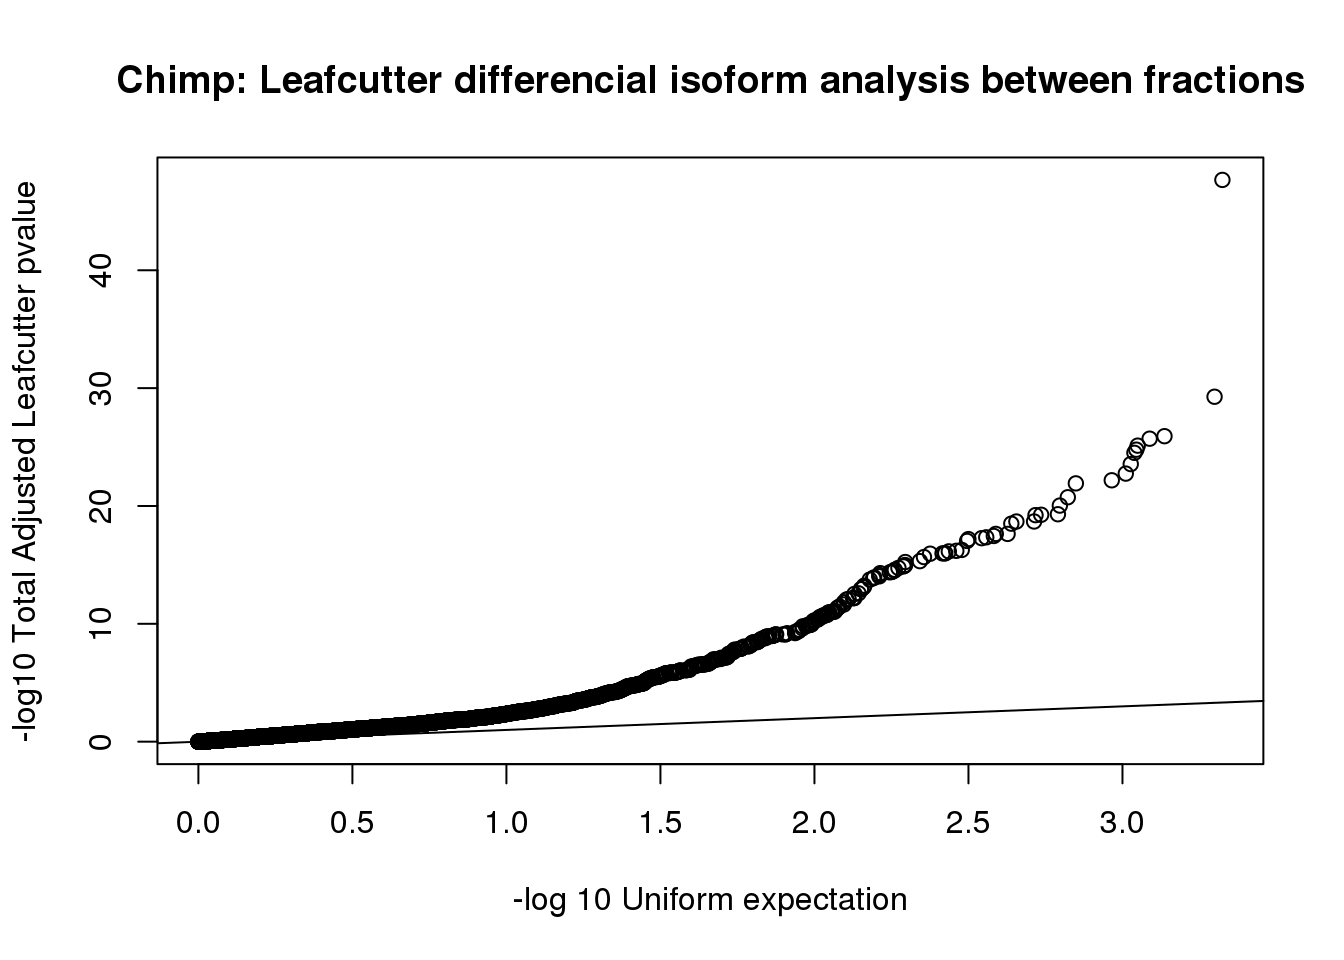
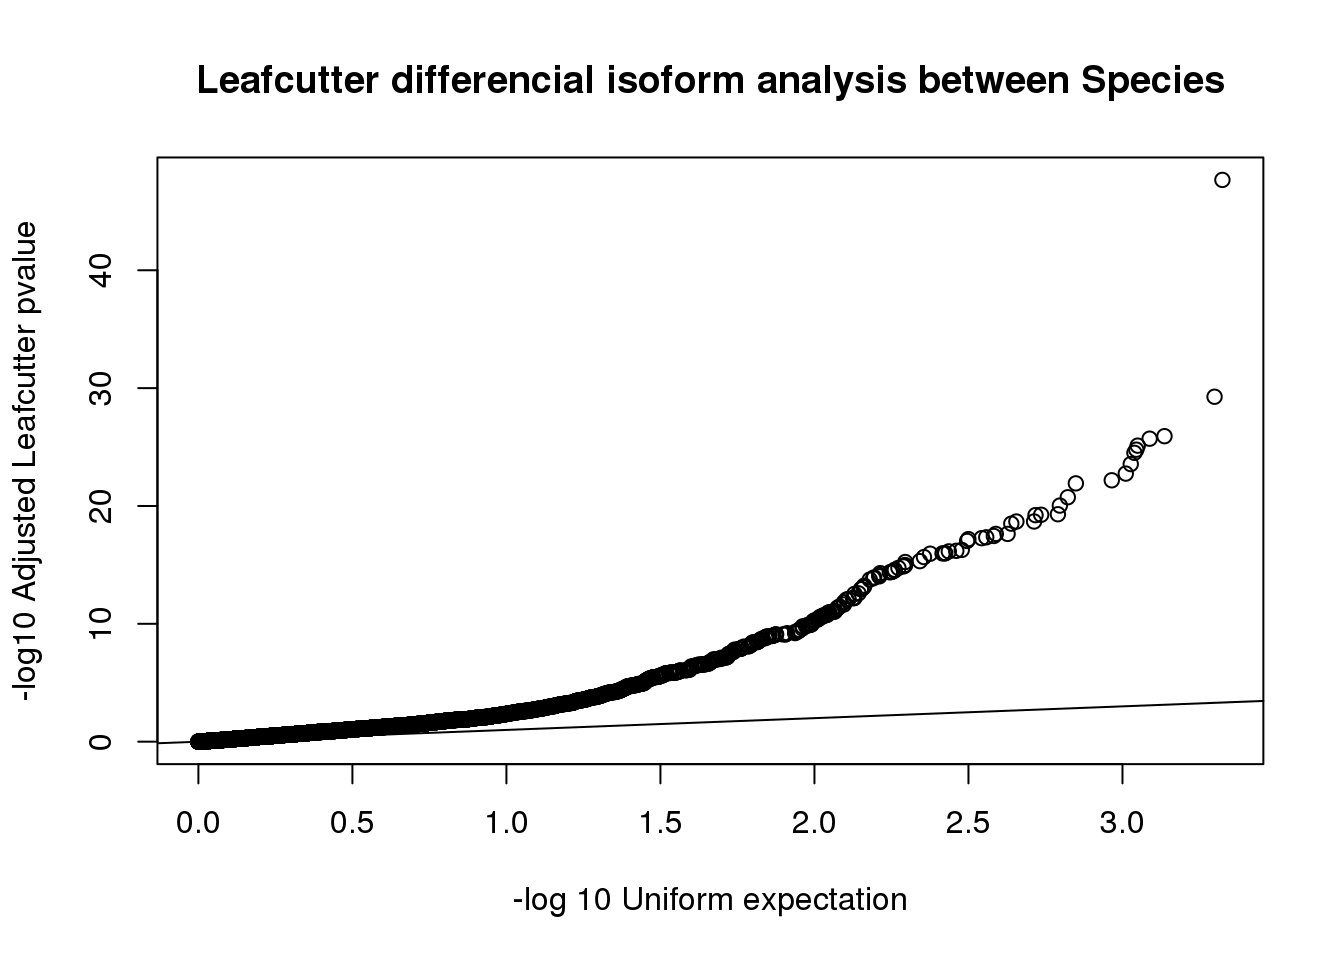
Build site.

Changed region(s): [[0.0625, 0.0625, 0.9688, 0.125], [0.0, 0.1875, 0.0312, 0.7812]]

diff --git a/docs/Nuclear_HvC.html b/docs/Nuclear_HvC.html
@@ -434,10 +434,10 @@ This reproducible <a href="http://rmarkdown.rstudio.com">R Markdown</a> analysis
 <div class="panel panel-default">
 <div class="panel-heading">
 <p class="panel-title">
-<a data-toggle="collapse" data-parent="#workflowr-checks" href="#strongRepositoryversionstrongahrefhttpsgithubcombrimittlemanComparativeAPAtree4a1903cba6a1e6dbe2bfcc784c67a3da1acd0c72targetblank4a1903ca"> <span class="glyphicon glyphicon-ok text-success" aria-hidden="true"></span> <strong>Repository version:</strong> <a href="https://github.com/brimittleman/Comparative_APA/tree/4a1903cba6a1e6dbe2bfcc784c67a3da1acd0c72" target="_blank">4a1903c</a> </a>
+<a data-toggle="collapse" data-parent="#workflowr-checks" href="#strongRepositoryversionstrongahrefhttpsgithubcombrimittlemanComparativeAPAtree238e54cf3ed080f76c8f18d2f7a08214e1fd0e4ctargetblank238e54ca"> <span class="glyphicon glyphicon-ok text-success" aria-hidden="true"></span> <strong>Repository version:</strong> <a href="https://github.com/brimittleman/Comparative_APA/tree/238e54cf3ed080f76c8f18d2f7a08214e1fd0e4c" target="_blank">238e54c</a> </a>
 </p>
 </div>
[2 lines of base64/hex data omitted]
 <div class="panel-body">
 <p>
 Great! You are using Git for version control. Tracking code development and connecting the code version to the results is critical for reproducibility. The version displayed above was the version of the Git repository at the time these results were generated. <br><br> Note that you need to be careful to ensure that all relevant files for the analysis have been committed to Git prior to generating the results (you can use <code>wflow_publish</code> or <code>wflow_git_commit</code>). workflowr only checks the R Markdown file, but you know if there are other scripts or data files that it depends on. Below is the status of the Git repository when the results were generated:
@@ -490,6 +490,7 @@ Untracked files:
     Untracked:  code/._runChimpDiffIso.sh
     Untracked:  code/._runHumanDiffIso.sh
     Untracked:  code/._runNuclearDifffIso.sh
+    Untracked:  code/._run_chimpverifybam.sh
     Untracked:  code/._run_verifyBam.sh
     Untracked:  code/._snakemake.batch
     Untracked:  code/._snakemakePAS.batch
@@ -509,6 +510,7 @@ Untracked files:
     Untracked:  code/._submit-snakemakefiltPAS-human.sh
     Untracked:  code/._subset_diffisopheno_Nuclear_HvC.py
     Untracked:  code/._verifyBam4973.sh
+    Untracked:  code/._wrap_chimpverifybam.sh
     Untracked:  code/._wrap_verifyBam.sh
     Untracked:  code/.snakemake/
     Untracked:  code/Config_chimp.yaml
@@ -608,6 +610,7 @@ Untracked files:
     Untracked:  code/run_Humanleafcutter_ds.out
     Untracked:  code/run_Nuclearleafcutter_ds.err
     Untracked:  code/run_Nuclearleafcutter_ds.out
+    Untracked:  code/run_chimpverifybam.sh
     Untracked:  code/run_verifyBam.sh
     Untracked:  code/run_verifybam.err
     Untracked:  code/run_verifybam.out
@@ -643,6 +646,9 @@ Untracked files:
     Untracked:  code/verifyBam4973.sh
     Untracked:  code/verifybam4973.err
     Untracked:  code/verifybam4973.out
+    Untracked:  code/wrap_Chimpverifybam.err
+    Untracked:  code/wrap_Chimpverifybam.out
+    Untracked:  code/wrap_chimpverifybam.sh
     Untracked:  code/wrap_verifyBam.sh
     Untracked:  code/wrap_verifybam.err
     Untracked:  code/wrap_verifybam.out
@@ -669,9 +675,12 @@ Untracked files:
     Untracked:  data/primaryLift/
     Untracked:  data/reverseLift/
     Untracked:  data/~$metadata_HCpanel.xlsx
+    Untracked:  docs/figure/assessReadQual.Rmd/
 
 Unstaged changes:
+    Modified:   analysis/CorrbetweenInd.Rmd
     Modified:   analysis/PASnumperSpecies.Rmd
+    Modified:   analysis/verifyBAM.Rmd
 
 </code></pre>
 <p>
@@ -710,6 +719,40 @@ Message
 </tr>
 </thead>
 <tbody>
+<tr>
+<td>
+Rmd
+</td>
+<td>
+<a href="https://github.com/brimittleman/Comparative_APA/blob/238e54cf3ed080f76c8f18d2f7a08214e1fd0e4c/analysis/Nuclear_HvC.Rmd" target="_blank">238e54c</a>
+</td>
+<td>
+brimittleman
+</td>
+<td>
+2019-10-16
+</td>
+<td>
+fix label
+</td>
+</tr>
+<tr>
+<td>
+html
+</td>
+<td>
+<a href="https://rawcdn.githack.com/brimittleman/Comparative_APA/aab50e46a88261d54c57e8cb30e70b98cb764899/docs/Nuclear_HvC.html" target="_blank">aab50e4</a>
+</td>
+<td>
+brimittleman
+</td>
+<td>
+2019-10-16
+</td>
+<td>
+Build site.
+</td>
+</tr>
 <tr>
 <td>
 Rmd
@@ -837,12 +880,12 @@ add pca and human v chimp in nuc analysis
 </div>
 </div>
 <pre class="r"><code>library(tidyverse)</code></pre>
-<pre><code>── Attaching packages ─────────────────────────────────────────────────────── tidyverse 1.2.1 ──</code></pre>
+<pre><code>── Attaching packages ───────────────────────────────── tidyverse 1.2.1 ──</code></pre>
 <pre><code>✔ ggplot2 3.1.1       ✔ purrr   0.3.2  
 ✔ tibble  2.1.1       ✔ dplyr   0.8.0.1
 ✔ tidyr   0.8.3       ✔ stringr 1.3.1  
 ✔ readr   1.3.1       ✔ forcats 0.3.0  </code></pre>
-<pre><code>── Conflicts ────────────────────────────────────────────────────────── tidyverse_conflicts() ──
+<pre><code>── Conflicts ──────────────────────────────────── tidyverse_conflicts() ──
 ✖ dplyr::filter() masks stats::filter()
 ✖ dplyr::lag()    masks stats::lag()</code></pre>
 <pre class="r"><code>library(reshape2)</code></pre>
@@ -905,7 +948,7 @@ awk &#39;{if(NR&gt;1)print}&#39; ../data/DiffIso_Nuclear/TN_diff_isoform_chr*.tx
 <pre class="r"><code>sig=read.table(&quot;../data/DiffIso_Nuclear/TN_diff_isoform_allChrom.txt_significance.txt&quot;,sep=&quot;\t&quot; ,col.names = c(&#39;status&#39;,&#39;loglr&#39;,&#39;df&#39;,&#39;p&#39;,&#39;cluster&#39;,&#39;p.adjust&#39;),stringsAsFactors = F) %&gt;% filter(status==&quot;Success&quot;) 
 
 sig$p.adjust=as.numeric(as.character(sig$p.adjust))</code></pre>
-<pre class="r"><code>qqplot(-log10(runif(nrow(sig))), -log10(sig$p.adjust),ylab=&quot;-log10 Total Adjusted Leafcutter pvalue&quot;, xlab=&quot;-log 10 Uniform expectation&quot;, main=&quot;Chimp: Leafcutter differencial isoform analysis between fractions&quot;)
+<pre class="r"><code>qqplot(-log10(runif(nrow(sig))), -log10(sig$p.adjust),ylab=&quot;-log10 Adjusted Leafcutter pvalue&quot;, xlab=&quot;-log 10 Uniform expectation&quot;, main=&quot;Leafcutter differencial isoform analysis between Species&quot;)
 abline(0,1)</code></pre>
 <p><img src="figure/Nuclear_HvC.Rmd/unnamed-chunk-10-1.png" width="672" style="display: block; margin: auto;" /></p>
 <p>
@@ -1079,6 +1122,17 @@ Date
 <tbody>
 <tr>
 <td>
+<a href="https://github.com/brimittleman/Comparative_APA/blob/aab50e46a88261d54c57e8cb30e70b98cb764899/docs/figure/Nuclear_HvC.Rmd/unnamed-chunk-19-1.png" target="_blank">aab50e4</a>
+</td>
+<td>
+brimittleman
+</td>
+<td>
+2019-10-16
+</td>
+</tr>
+<tr>
+<td>
 <a href="https://github.com/brimittleman/Comparative_APA/blob/9d67688dd0bd68fb724c151ded92b0ba6ee1913b/docs/figure/Nuclear_HvC.Rmd/unnamed-chunk-19-1.png" target="_blank">9d67688</a>
 </td>
 <td>
@@ -1103,8 +1157,83 @@ effectsizeTopChimp=effectsize_sep %&gt;% group_by(gene) %&gt;% summarise(Min=min
 effectsize_wES_chimp=effectsizeTopChimp %&gt;% inner_join(sig_geneP, by=&quot;gene&quot;) %&gt;% mutate(Species=ifelse(TopdPAU &gt; 0.2 &amp; p.adjust&lt;.05, &quot;Chimp&quot;, ifelse(TopdPAU &lt; -0.2 &amp; p.adjust&lt; .05, &quot;Human&quot;, &quot;Neither&quot;)))</code></pre>
 <pre class="r"><code>ggplot(effectsize_wES_human,aes(x=TopdPAU, y=-log10(p.adjust))) + geom_point(aes(col=Species, shape=TwoPAS),alpha=.5) + labs(title=&quot;Top PAS per gene \nHuman dominant for 2 PAS&quot;)+ geom_text(data=subset(effectsize_wES_human,-log10(p.adjust) &gt;20 &amp; abs(TopdPAU)&gt;.2 ), aes(x=TopdPAU,y=-log10(p.adjust) +2,label=gene))</code></pre>
 <p><img src="figure/Nuclear_HvC.Rmd/unnamed-chunk-21-1.png" width="672" style="display: block; margin: auto;" /></p>
+<p>
+<button type="button" class="btn btn-default btn-xs btn-workflowr btn-workflowr-fig" data-toggle="collapse" data-target="#fig-unnamed-chunk-21-1">
+Past versions of unnamed-chunk-21-1.png
+</button>
+</p>
+<div id="fig-unnamed-chunk-21-1" class="collapse">
+<div class="table-responsive">
+<table class="table table-condensed table-hover">
+<thead>
+<tr>
+<th>
+Version
+</th>
+<th>
+Author
+</th>
+<th>
+Date
+</th>
+</tr>
+</thead>
+<tbody>
+<tr>
+<td>
+<a href="https://github.com/brimittleman/Comparative_APA/blob/aab50e46a88261d54c57e8cb30e70b98cb764899/docs/figure/Nuclear_HvC.Rmd/unnamed-chunk-21-1.png" target="_blank">aab50e4</a>
+</td>
+<td>
+brimittleman
+</td>
+<td>
+2019-10-16
+</td>
+</tr>
+</tbody>
+</table>
+</div>
+</div>
 <pre class="r"><code>ggplot(effectsize_wES_chimp,aes(x=TopdPAU, y=-log10(p.adjust))) + geom_point(aes(col=Species, shape=TwoPAS),alpha=.5)  + labs(title=&quot;Top PAS per gene \nChimp dominant for 2 PAS&quot;)+ geom_text(data=subset(effectsize_wES_chimp, -log10(p.adjust) &gt;20 &amp; abs(TopdPAU)&gt;.2), aes(x=TopdPAU,y=-log10(p.adjust) +2,label=gene)) </code></pre>
-<p><img src="figure/Nuclear_HvC.Rmd/unnamed-chunk-22-1.png" width="672" style="display: block; margin: auto;" /> This suggest there are dominant PAS on the chimp side and the PAS usage is more spread out in the humans.</p>
+<p><img src="figure/Nuclear_HvC.Rmd/unnamed-chunk-22-1.png" width="672" style="display: block; margin: auto;" /></p>
+<p>
+<button type="button" class="btn btn-default btn-xs btn-workflowr btn-workflowr-fig" data-toggle="collapse" data-target="#fig-unnamed-chunk-22-1">
+Past versions of unnamed-chunk-22-1.png
+</button>
+</p>
+<div id="fig-unnamed-chunk-22-1" class="collapse">
+<div class="table-responsive">
+<table class="table table-condensed table-hover">
+<thead>
+<tr>
+<th>
+Version
+</th>
+<th>
+Author
+</th>
+<th>
+Date
+</th>
+</tr>
+</thead>
+<tbody>
+<tr>
+<td>
+<a href="https://github.com/brimittleman/Comparative_APA/blob/aab50e46a88261d54c57e8cb30e70b98cb764899/docs/figure/Nuclear_HvC.Rmd/unnamed-chunk-22-1.png" target="_blank">aab50e4</a>
+</td>
+<td>
+brimittleman
+</td>
+<td>
+2019-10-16
+</td>
+</tr>
+</tbody>
+</table>
+</div>
+</div>
+<p>This suggest there are dominant PAS on the chimp side and the PAS usage is more spread out in the humans.</p>
 <br>
 <p>
 <button type="button" class="btn btn-default btn-workflowr btn-workflowr-sessioninfo" data-toggle="collapse" data-target="#workflowr-sessioninfo" style="display: block;">
